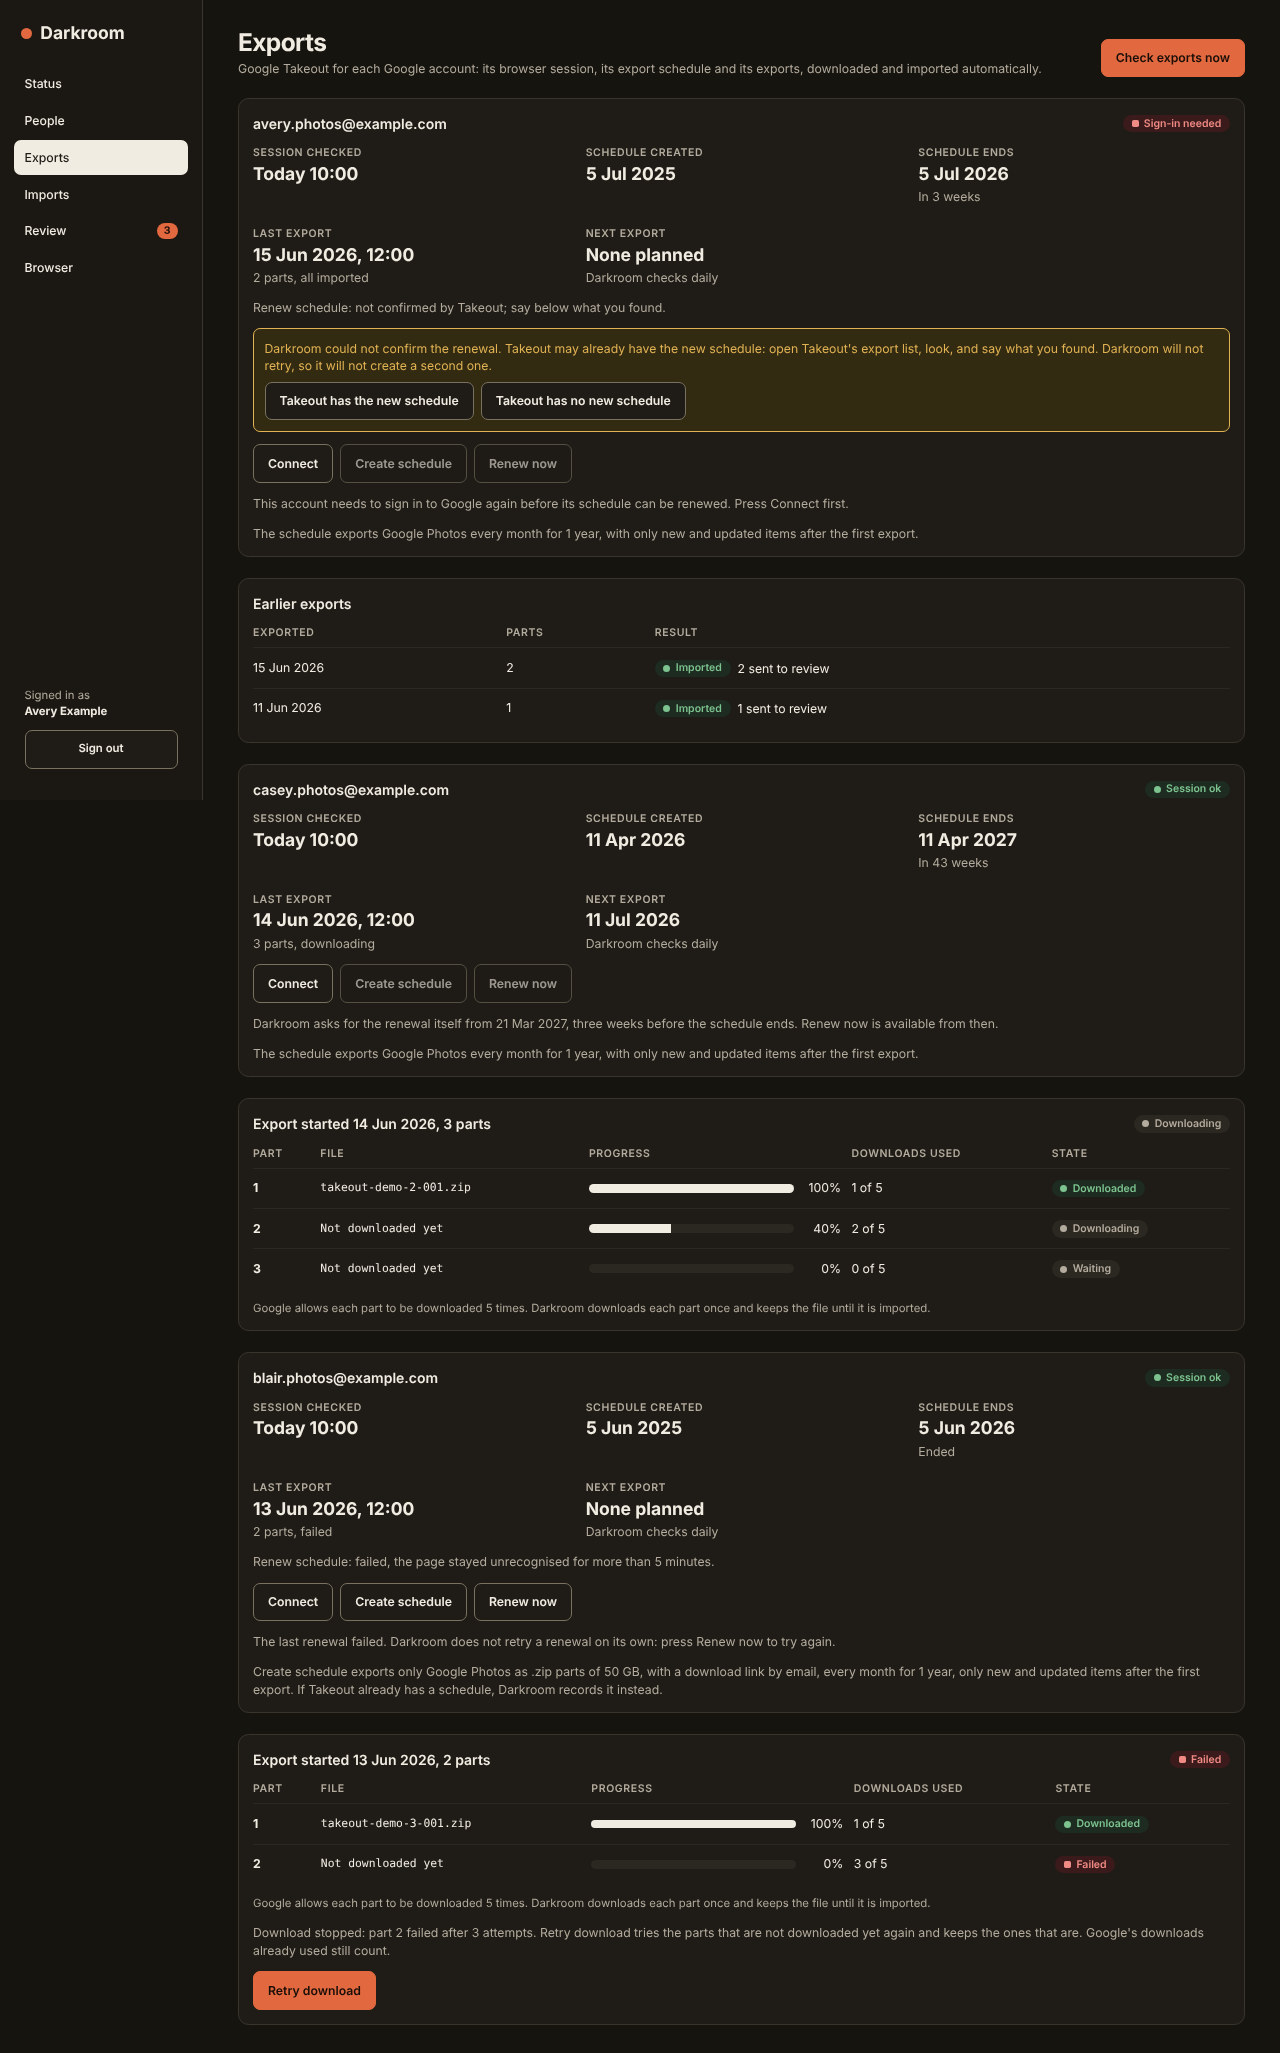
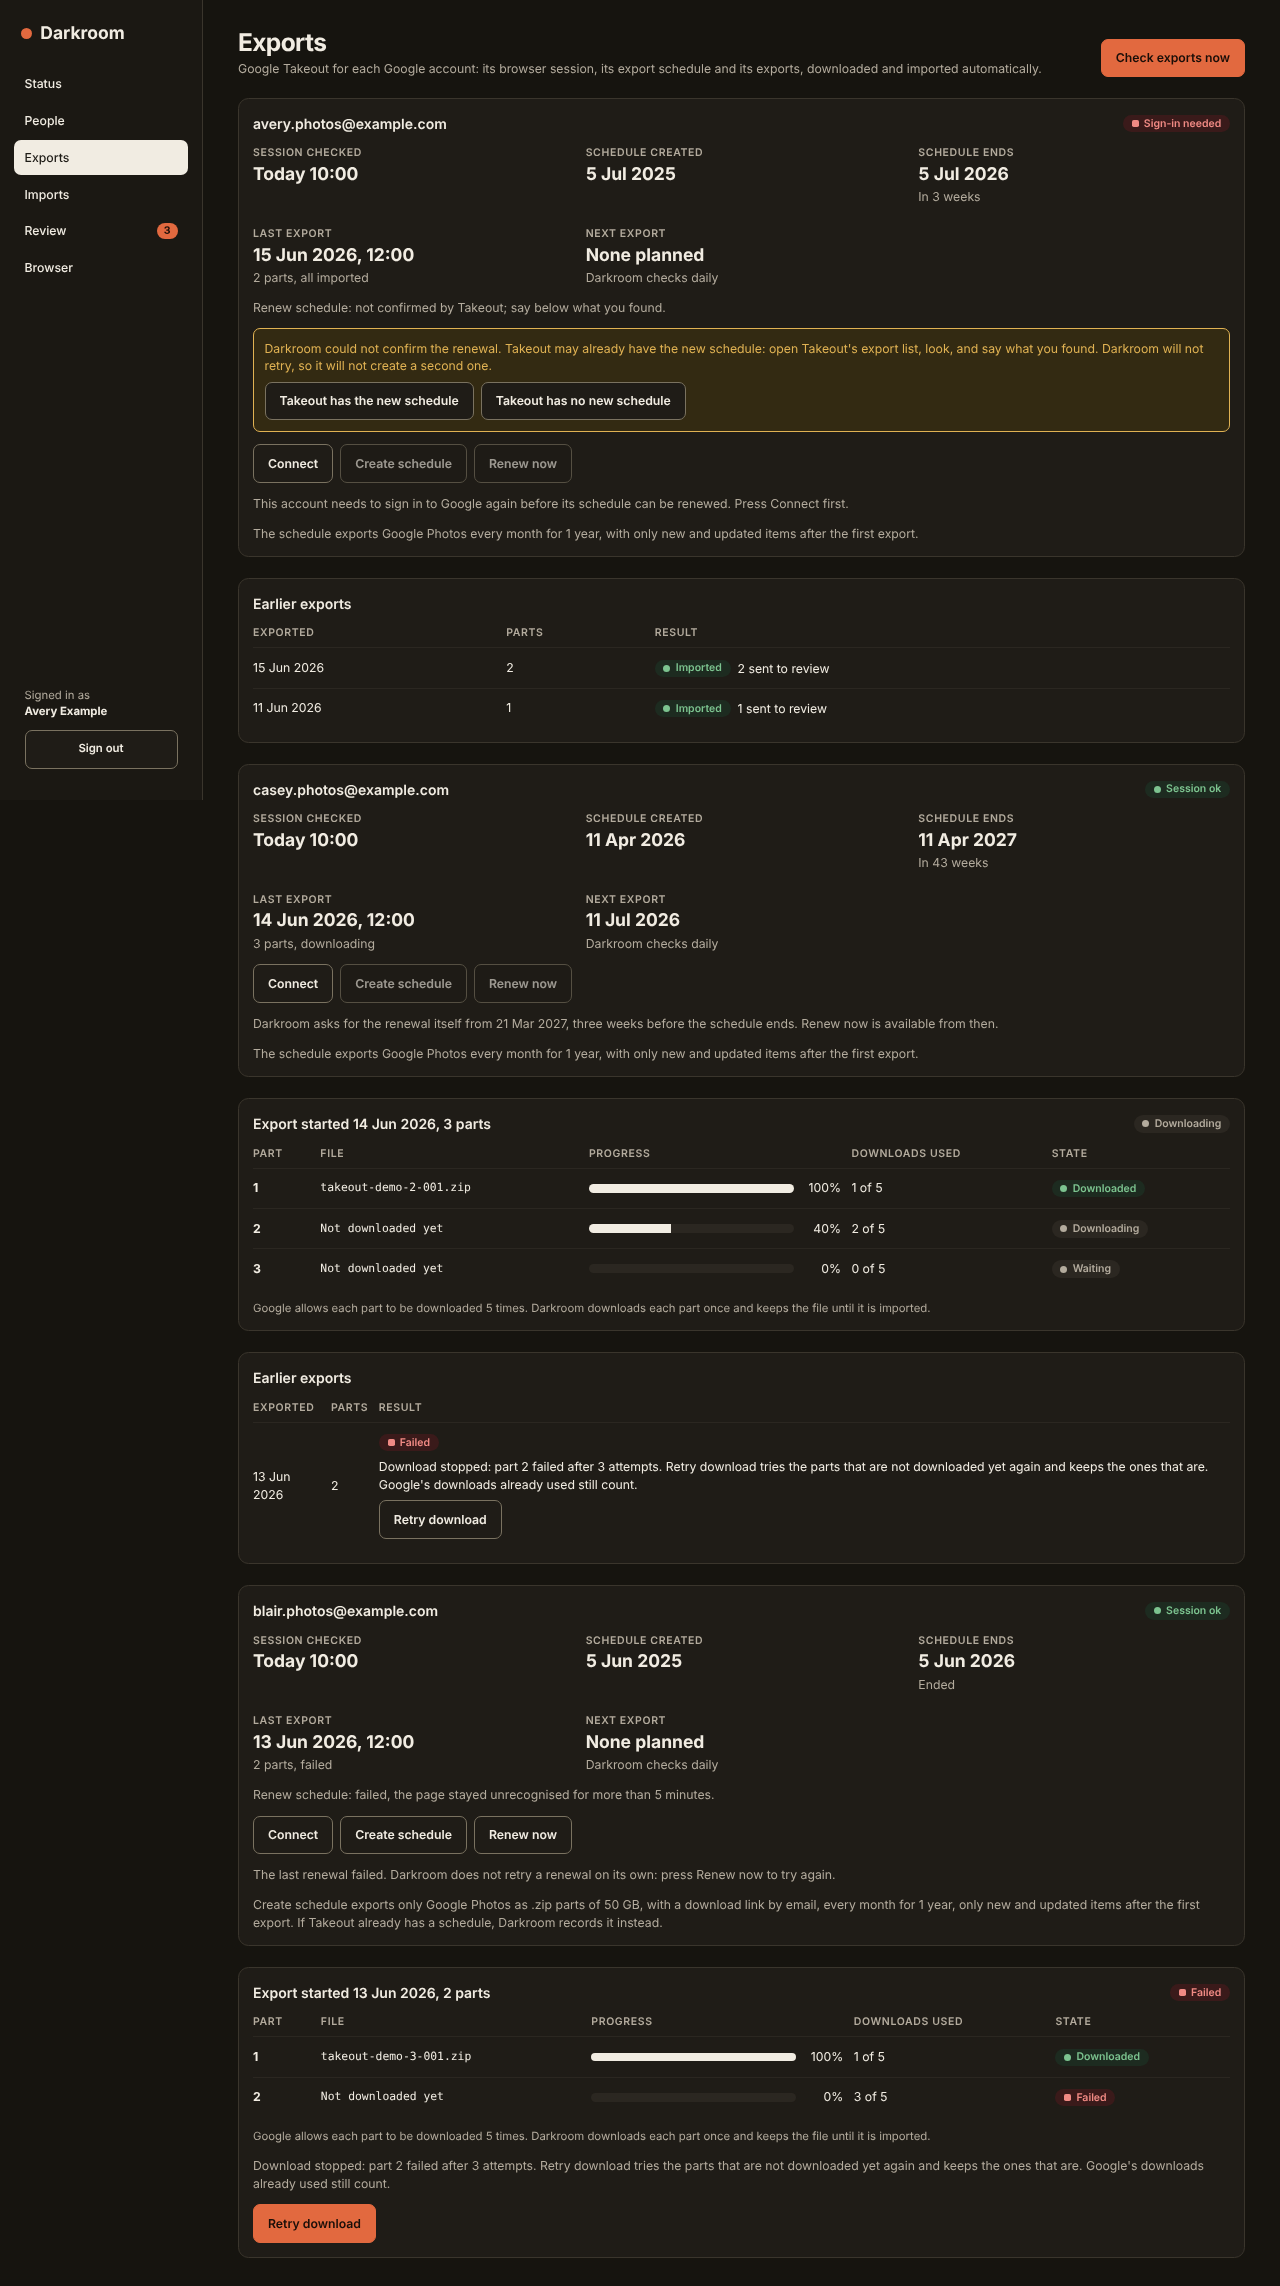
fix: offer Retry download for an older failed export too
Codex found that only the account's current export could show the retry: an
older failed download behind a newer export still downloading went to
Earlier exports with neither its sentence nor the button, so it could expire
in Takeout before the newer one finished. Every export with retry_allowed
now shows the fixed sentence and a Retry download button: the current card
as before, and in Earlier exports in the row's Result cell (a secondary
button beside the Failed chip). The boards draw the row, and the demo seeds
an older failed download behind Casey's export in progress.

Refs #427.

Claude-Session: https://claude.ai/code/session_01VkTLMcLtRGAYzDabjTJaE6

diff --git a/frontend/src/pages/Exports.svelte.test.ts b/frontend/src/pages/Exports.svelte.test.ts
@@ -4,7 +4,7 @@ import userEvent from "@testing-library/user-event";
 import { afterEach, beforeEach, describe, expect, it, vi } from "vitest";
 import { onDay, onDayAt } from "$lib/format";
 import { router } from "$lib/nav.svelte";
-import { downloadingExport, expiredExport, failedDownload, failedExport, SPENT, spentDownload, failedSchedule, familyAccount, importedExport, joAccount, noExports, preparingExport, queuedConnect, reply, serve, waitingConnect } from "../test/server";
+import { downloadingExport, expiredExport, failedDownload, failedExport, olderFailedDownload, SPENT, spentDownload, failedSchedule, familyAccount, importedExport, joAccount, noExports, preparingExport, queuedConnect, reply, serve, waitingConnect } from "../test/server";
 import Exports from "./Exports.svelte";
 
 beforeEach(() => {
@@ -626,6 +626,23 @@ describe("the Exports page", () => {
       await userEvent.click(await screen.findByRole("button", { name: "Retry download" }));
       expect(await screen.findByRole("alert")).toHaveTextContent("This export has expired in Takeout, so it can't be downloaded again.");
       expect(server.sent("GET /api/exports").length).toBeGreaterThan(1);
+    });
+
+    it("is offered for an older failed download listed under a newer export that is still downloading", async () => {
+      const server = show({
+        "GET /api/accounts": { accounts: [joAccount] },
+        "GET /api/browser/jobs": { jobs: [] },
+        "GET /api/exports": { exports: [downloadingExport, olderFailedDownload], schedules: [] },
+        "POST /api/exports/44/retry-download": () => reply(200, { export: { ...olderFailedDownload, status: "downloading", retry_allowed: false }, retried: true }),
+      });
+      const current = await screen.findByRole("region", { name: /Current export parts/ });
+      expect(within(current).queryByRole("button", { name: "Retry download" })).not.toBeInTheDocument();
+      const earlier = screen.getByRole("region", { name: /Earlier exports/ });
+      const button = within(earlier).getByRole("button", { name: "Retry download" });
+      expect(button).toHaveAccessibleDescription(/^Download stopped: part 2 failed after 3 attempts\./);
+      await userEvent.click(button);
+      expect(server.sent("POST /api/exports/44/retry-download")).toHaveLength(1);
+      expect(await screen.findByRole("status")).toHaveTextContent("Download queued again for jo.photos@example.com.");
     });
 
     it("is not offered for an export that cannot be retried, which says what to do instead", async () => {

diff --git a/frontend/src/lib/view.test.ts b/frontend/src/lib/view.test.ts
@@ -1,7 +1,7 @@
 import { describe, expect, it } from "vitest";
 import { seededStatus } from "../test/server";
 import { onDay } from "./format";
-import { downloadingExport, expiredExport, failedDownload, failedExport, spentDownload, familyAccount, importedExport, joAccount, preparingExport, queuedConnect, waitingConnect } from "../test/server";
+import { downloadingExport, expiredExport, failedDownload, failedExport, olderFailedDownload, spentDownload, familyAccount, importedExport, joAccount, preparingExport, queuedConnect, waitingConnect } from "../test/server";
 import { accountExports, alertChip, checkNowSentence, currentExport, earlierExports, exportChip, failedCaptures, failedDownloadSentence, retryDownloadSentence, jobSentence, lastExportSentence, maybeRenewed, renewNow, scheduleLive, partChip, partsLabel, reviewCount, needsAttention, needsSentence, pixelSyncthing, sessionChip, syncthingCard } from "./view";
 
 describe("sessionChip", () => {
@@ -284,6 +284,8 @@ describe("a failed download", () => {
     expect(currentExport([failedDownload, importedExport])?.id).toBe(42);
     expect(currentExport([spentDownload, importedExport])).toBeUndefined();
     expect(currentExport([failedExport])).toBeUndefined();
+    expect(currentExport([downloadingExport, olderFailedDownload])?.id).toBe(40);
+    expect(earlierExports([downloadingExport, olderFailedDownload], downloadingExport).map((item) => item.id)).toEqual([44]);
   });
 
   it("says why it stopped and what Retry download does", () => {

diff --git a/docs/design/web/04-exports-desktop.dc.html b/docs/design/web/04-exports-desktop.dc.html
@@ -113,12 +113,13 @@ td{padding:12px 12px 12px 0;border-top:1px solid #2B2721;vertical-align:middle}
 <button class="btn p" type="button" style="align-self:flex-start">Retry download</button>
 </section>
 
-<section class="card" aria-label="Earlier exports, a download that cannot be retried">
+<section class="card" aria-label="Earlier exports, an older download that can be retried and one that cannot">
 <h2>Earlier exports</h2>
 <table>
 <thead><tr><th>Exported</th><th>Parts</th><th>Result</th></tr></thead>
 <tbody>
-<tr><td>2 Nov 2026</td><td>2</td><td><span class="chip bad"><i></i>Failed</span> Part 2 has used all 5 of Google's downloads, so Takeout won't let Darkroom download it again. Ask Takeout for a new export of Google Photos instead.</td></tr>
+<tr><td>30 Oct 2026</td><td>2</td><td><span class="chip bad"><i></i>Failed</span> Download stopped: part 2 failed after 3 attempts. Retry download tries the parts that are not downloaded yet again and keeps the ones that are. Google's downloads already used still count. <button class="btn" type="button">Retry download</button></td></tr>
+<tr><td>2 Oct 2026</td><td>2</td><td><span class="chip bad"><i></i>Failed</span> Part 2 has used all 5 of Google's downloads, so Takeout won't let Darkroom download it again. Ask Takeout for a new export of Google Photos instead.</td></tr>
 </tbody>
 </table>
 </section>

diff --git a/docs/design/web/04-exports-phone.dc.html b/docs/design/web/04-exports-phone.dc.html
@@ -119,9 +119,12 @@ h2{margin:0;font-size:17px;line-height:1.3}
 <button class="btn p" type="button" style="width:100%">Retry download</button>
 </section>
 
-<section class="card" aria-label="Earlier exports, a download that cannot be retried">
+<section class="card" aria-label="Earlier exports, an older download that can be retried and one that cannot">
 <h2>Earlier exports</h2>
-<div class="row"><span>2 Nov 2026, 2 parts</span><span class="chip bad"><i></i>Failed</span></div>
+<div class="row"><span>30 Oct 2026, 2 parts</span><span class="chip bad"><i></i>Failed</span></div>
+<div class="sub">Download stopped: part 2 failed after 3 attempts. Retry download tries the parts that are not downloaded yet again and keeps the ones that are. Google's downloads already used still count.</div>
+<button class="btn" type="button" style="width:100%">Retry download</button>
+<div class="row"><span>2 Oct 2026, 2 parts</span><span class="chip bad"><i></i>Failed</span></div>
 <div class="sub">Part 2 has used all 5 of Google's downloads, so Takeout won't let Darkroom download it again. Ask Takeout for a new export of Google Photos instead.</div>
 </section>
 </main>

diff --git a/frontend/src/pages/Exports.svelte b/frontend/src/pages/Exports.svelte
@@ -258,6 +258,7 @@
             {#snippet row(item)}
               {@const chip = exportChip(item)}
               {@const review = reviewCount(data.imports, item.id)}
+              {@const retryNote = failedDownloadSentence(item)}
               <tr>
                 <td data-label="Exported">{onDay(item.created_at ?? 0)}</td>
                 <td data-label="Parts">{item.part_count ?? "None"}</td>
@@ -266,6 +267,9 @@
                     <Chip tone={chip.tone} label={chip.label} />
                     {#if item.status === "expired"}
                       <span>Never downloaded</span>
+                    {:else if retryNote}
+                      <span id="retry-note-{item.id}">{retryNote}</span>
+                      <button type="button" class="btn" disabled={busy > 0} aria-describedby="retry-note-{item.id}" onclick={() => retryDownload(item.id, account.email)}>Retry download</button>
                     {:else if item.status === "failed" && item.retry_refusal}
                       <span>{item.retry_refusal}</span>
                     {:else if review > 0}

diff --git a/frontend/src/test/server.ts b/frontend/src/test/server.ts
@@ -93,6 +93,7 @@ export const failedDownload: ExportView = {
   ...downloadingExport, id: 42, status: "failed", retry_allowed: true,
   parts: [part(1, "done", 1), { ...part(2, "failed", 3), filename: null }, part(3, "pending", 0)],
 };
+export const olderFailedDownload: ExportView = { ...failedDownload, id: 44, created_at: 200_000 };
 export const SPENT = "Part 2 has used all 5 of Google's downloads, so Takeout won't let Darkroom download it again. Ask Takeout for a new export of Google Photos instead.";
 export const spentDownload: ExportView = { ...failedDownload, id: 43, created_at: 250_000, retry_allowed: false, retry_refusal: SPENT };
 export const expiredExport: ExportView = { id: 36, account_id: 10, kind: "incremental", created_at: 100_000, ready_at: null, expires_at: 150_000, part_count: 4, status: "expired", stage: null, parts: [], retry_allowed: false, retry_refusal: null };

diff --git a/tests/test_demo.py b/tests/test_demo.py
@@ -160,7 +160,7 @@ class SeededDemo(unittest.TestCase):
 
     def test_one_imported_export_shows_a_run_and_one_pending_review_pair_with_its_held_copy(self):
         exports = self.rows(Export)
-        self.assertEqual([(e.status, e.kind) for e in exports], [("imported", "incremental"), ("downloading", "incremental"), ("failed", "incremental")])
+        self.assertEqual([(e.status, e.kind) for e in exports], [("imported", "incremental"), ("downloading", "incremental"), ("failed", "incremental"), ("failed", "incremental")])
         runs = self.rows(ImportRun)
         self.assertEqual([(r.status, r.added, r.review, r.missing_gps) for r in runs], [("done", 2, 1, 3)])
         reviews = self.rows(ReviewItem)
@@ -214,9 +214,17 @@ class SeededDemo(unittest.TestCase):
             export = opened.get(Export, parts[0].export_id)
             self.assertEqual([each["progress"] for each in exports.as_dict(opened, export, NOON)["parts"]], [100, 40, 0])
 
+    def test_an_older_failed_download_sits_behind_the_export_still_downloading_on_the_same_account(self):
+        with db.session(self.engine) as opened:
+            older = opened.query(Export).filter(Export.google_id == "demo-export-4").one()
+            newer = opened.query(Export).filter(Export.status == "downloading").one()
+            self.assertEqual(older.account_id, newer.account_id)
+            self.assertLess(older.created_at, newer.created_at)
+            self.assertTrue(exports.as_dict(opened, older, NOON)["retry_allowed"])
+
     def test_a_third_export_failed_its_download_and_can_be_retried_without_touching_its_downloaded_part(self):
         with db.session(self.engine, writing=True) as opened:
-            export = opened.query(Export).filter(Export.status == "failed").one()
+            export = opened.query(Export).filter(Export.google_id == "demo-export-3").one()
             shown = exports.as_dict(opened, export, NOON)
             self.assertEqual((shown["retry_allowed"], [(part["status"], part["downloads_used"]) for part in shown["parts"]]), (True, [("done", 1), ("failed", 3)]))
             retried, changed = downloads.retry_failed(opened, export.id, NOON)
@@ -227,7 +235,7 @@ class SeededDemo(unittest.TestCase):
     def test_every_seeded_export_is_pinned_to_its_owner_whatever_the_accounts_default_person_becomes(self):
         with db.session(self.engine) as opened:
             seeded = list(opened.query(Export).order_by(Export.id))
-            self.assertEqual(len(seeded), 3)
+            self.assertEqual(len(seeded), 4)
             for export in seeded:
                 account = opened.get(GoogleAccount, export.account_id)
                 self.assertIsNotNone(export.owner_person_id)

diff --git a/darkroom/domain/demo.py b/darkroom/domain/demo.py
@@ -368,15 +368,15 @@ def seed_download(opened: Session, now: float) -> None:
     opened.add(ExportPart(export_id=export.id, number=3, bytes=1_800_000, status="pending"))
 
 
-def seed_failed_download(opened: Session, now: float) -> None:
-    owner = opened.execute(select(Person).where(Person.slug == "blair")).scalar_one()
+def seed_failed_download(opened: Session, now: float, slug: str = "blair", number: int = 3) -> None:
+    owner = opened.execute(select(Person).where(Person.slug == slug)).scalar_one()
     account = opened.execute(select(GoogleAccount).where(GoogleAccount.default_person_id == owner.id)).scalar_one()
-    export = Export(account_id=account.id, kind="incremental", google_id="demo-export-3", created_at=now - 2 * DAY, ready_at=now - 2 * DAY + HOUR,
+    export = Export(account_id=account.id, kind="incremental", google_id=f"demo-export-{number}", created_at=now - 2 * DAY, ready_at=now - 2 * DAY + HOUR,
                     expires_at=now + 5 * DAY + HOUR, part_count=2, status="failed", download_tries=0, owner_person_id=owner.id)
     opened.add(export)
     opened.flush()
-    opened.add(ExportPart(export_id=export.id, number=1, filename="takeout-demo-3-001.zip", bytes=2_000_000, bytes_done=2_000_000, downloads_used=1, attempts=1,
-                          status="done"))
+    opened.add(ExportPart(export_id=export.id, number=1, filename=f"takeout-demo-{number}-001.zip", bytes=2_000_000, bytes_done=2_000_000, downloads_used=1,
+                          attempts=1, status="done"))
     opened.add(ExportPart(export_id=export.id, number=2, bytes=1_500_000, downloads_used=3, attempts=3, status="failed"))
 
 
@@ -438,6 +438,7 @@ def seed(opened: Session, photos: Photos, settings: Settings, today: date) -> Su
     seed_import(opened, photos, people, today, now)
     seed_download(opened, now)
     seed_failed_download(opened, now)
+    seed_failed_download(opened, now, "casey", 4)
     events.record(opened, now - 3 * HOUR, transport.RECOVERED, transport.SUBJECT)
     seed_transport(opened, now)
     transport_status.review_unlocked(opened, settings, now - 2 * HOUR, alerts.recorded)

diff --git a/docs/design/web/README.md b/docs/design/web/README.md
@@ -14,7 +14,7 @@ The boards are exported as read from the Design canvas: https://claude.ai/artifa
 | `03-people-desktop.dc.html`, `03-people-phone.dc.html` | People |
 | `04-exports-desktop.dc.html`, `04-exports-phone.dc.html` | Exports |
 | `04-exports-renew-desktop.dc.html`, `04-exports-renew-phone.dc.html` | Exports, Renew now states (signed off, #164, recorded on #16 (https://github.com/AnthonyPluth/Darkroom/issues/16#issuecomment-6720414904)) |
-| `04-exports-desktop.dc.html`, `04-exports-phone.dc.html` (last two blocks) | Exports, a failed download: the parts, why it stopped and Retry download, and in Earlier exports a failed download that can't be retried with what to do instead (**awaiting the owner's sign-off**, #427) |
+| `04-exports-desktop.dc.html`, `04-exports-phone.dc.html` (last two blocks) | Exports, a failed download: the parts, why it stopped and Retry download, and in Earlier exports an older failed download that can still be retried (its sentence and a Retry download button in the row, shown when a newer export is current) and one that can't be retried with what to do instead (**awaiting the owner's sign-off**, #427) |
 | `05-imports-desktop.dc.html`, `05-imports-phone.dc.html` | Imports and Missing GPS |
 | `06-review-desktop.dc.html`, `06-review-phone.dc.html` | Review queue |
 | `07-browser-desktop.dc.html`, `07-browser-phone.dc.html` | Remote browser |
